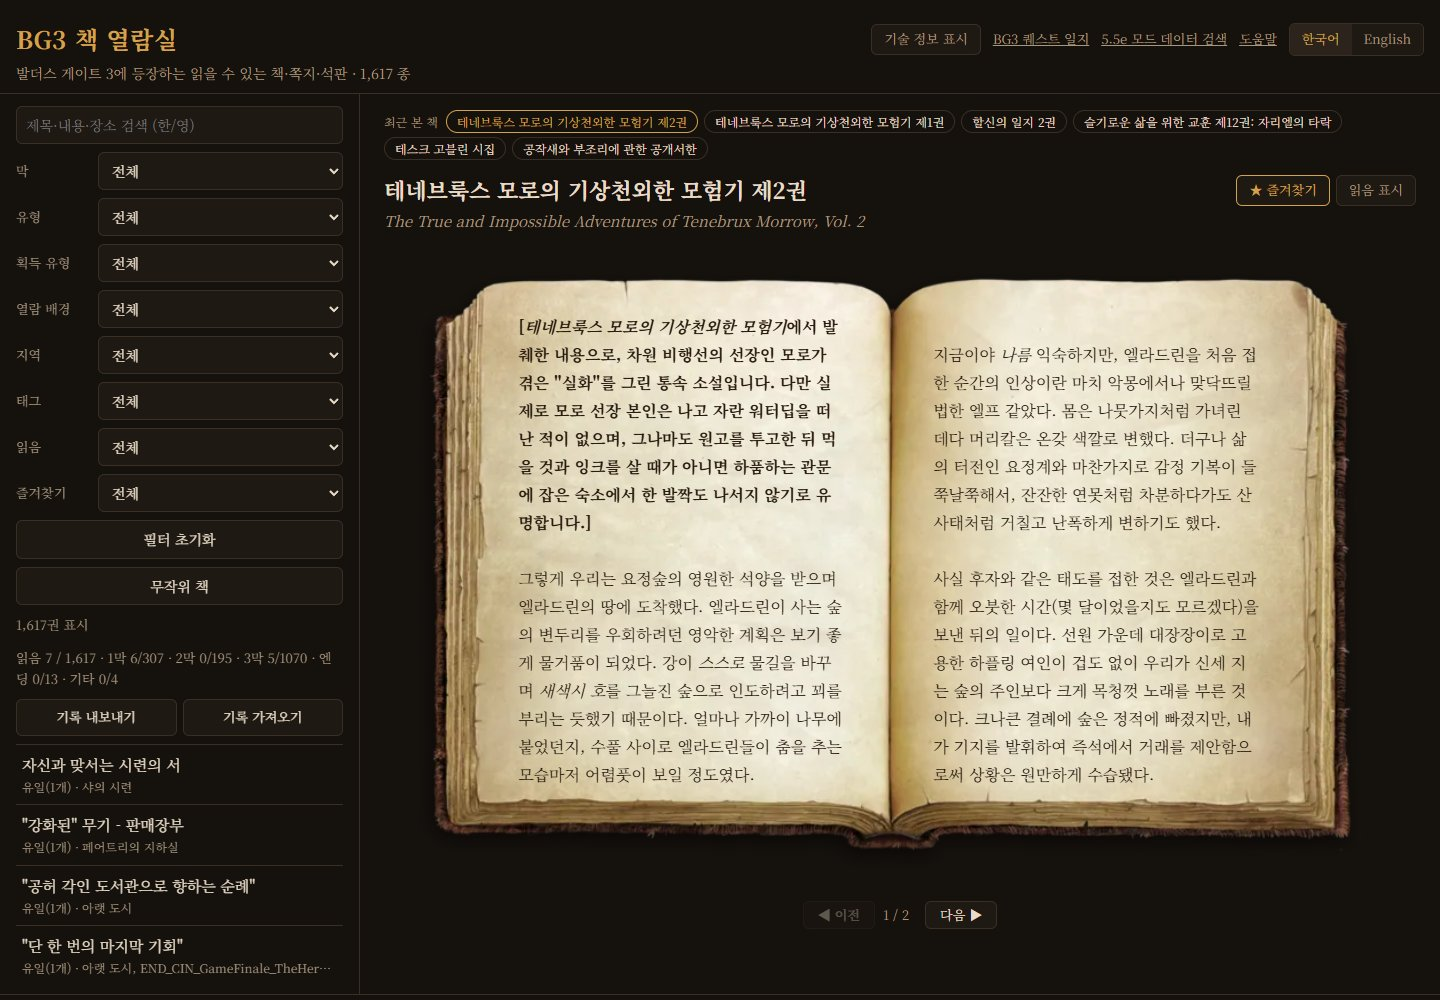
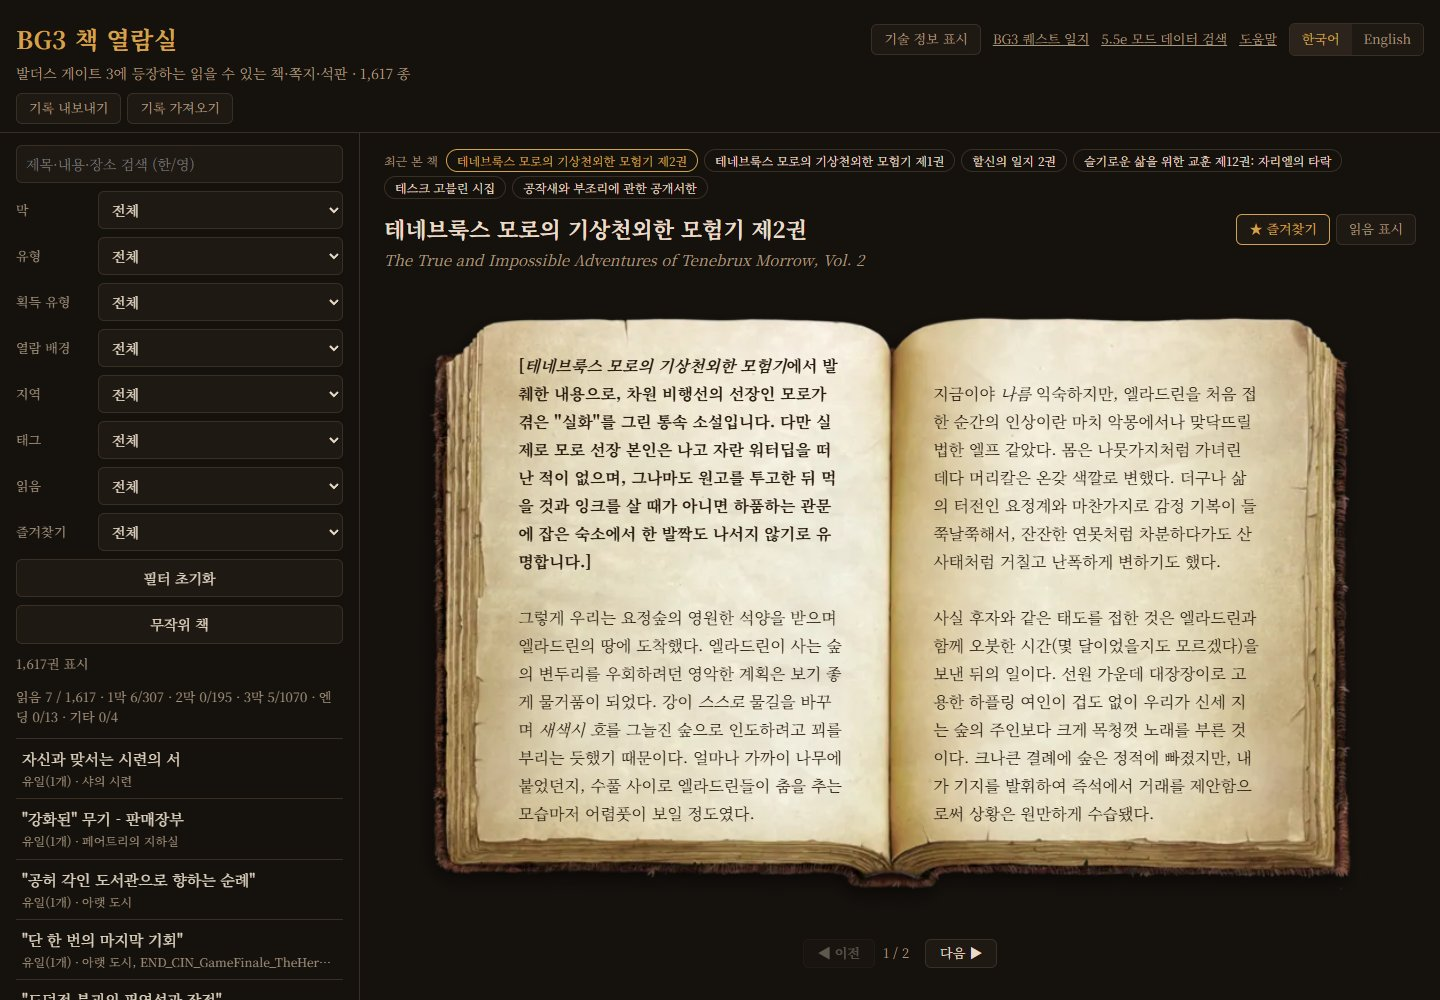
feat: 기록 내보내기·가져오기를 bg3quest처럼 헤더로 이동

diff --git a/docs/index.html b/docs/index.html
@@ -29,6 +29,7 @@
     </div></div>
   </div>
   <p class="sub"><span data-i18n="sub"></span> <span id="total"></span></p>
+  <div class="io-tools"><button id="export" type="button" class="tech-btn" data-i18n="exportBtn"></button><button id="import" type="button" class="tech-btn" data-i18n="importBtn"></button><span id="io-msg"></span></div>
 </header>
 <div class="layout">
   <aside class="filters">
@@ -45,9 +46,7 @@
     <button id="random" type="button" data-i18n="random"></button>
     <p class="count" id="count"></p>
     <p class="count" id="progress"></p>
-    <div class="io"><button id="export" type="button" data-i18n="exportBtn"></button><button id="import" type="button" data-i18n="importBtn"></button>
-      <input id="import-file" type="file" accept="application/json,.json" hidden></div>
-    <p class="count" id="io-msg"></p>
+    <input id="import-file" type="file" accept=".json,application/json" hidden>
     <ul id="list"></ul>
   </aside>
   <main id="detail"></main>

diff --git a/docs/style.css b/docs/style.css
@@ -31,9 +31,8 @@ h1 { margin: 0; font-size: 24px; color: var(--accent); letter-spacing: .02em; }
 .filters label { display: grid; grid-template-columns: 76px 1fr; align-items: center; gap: 6px; font-size: 13px; color: var(--muted); }
 .filters button { cursor: pointer; }
 .count { margin: 2px 0; font-size: 13px; color: var(--muted); }
-.io { display: flex; gap: 6px; }
-.io button { font-size: 13px; }
-#io-msg:empty { display: none; }
+.io-tools { display: flex; flex-wrap: wrap; align-items: center; gap: 6px; margin-top: 8px; }
+#io-msg { font-size: 13px; color: var(--muted); }
 .recent { display: flex; flex-wrap: wrap; gap: 4px 6px; align-items: center; margin: 0 0 12px; font-size: 12px; color: var(--muted); }
 .recent b { font-weight: normal; margin-right: 2px; }
 .recent a, .recent span { border: 1px solid var(--line); border-radius: 999px; padding: 1px 10px; color: var(--text); text-decoration: none; }
